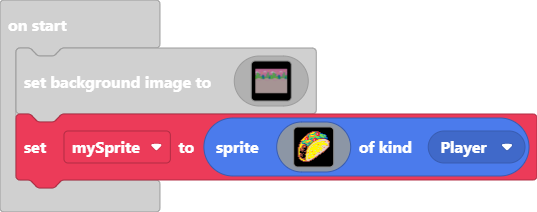
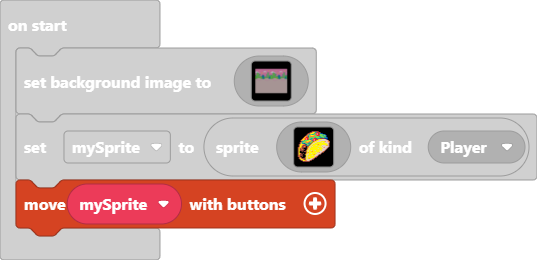
Update main.blocks, main.ts

diff --git a/main.ts b/main.ts
@@ -154,3 +154,4 @@ let mySprite = sprites.create(img`
     .....eeeeeee....................
     ................................
     `, SpriteKind.Player)
+controller.moveSprite(mySprite)
